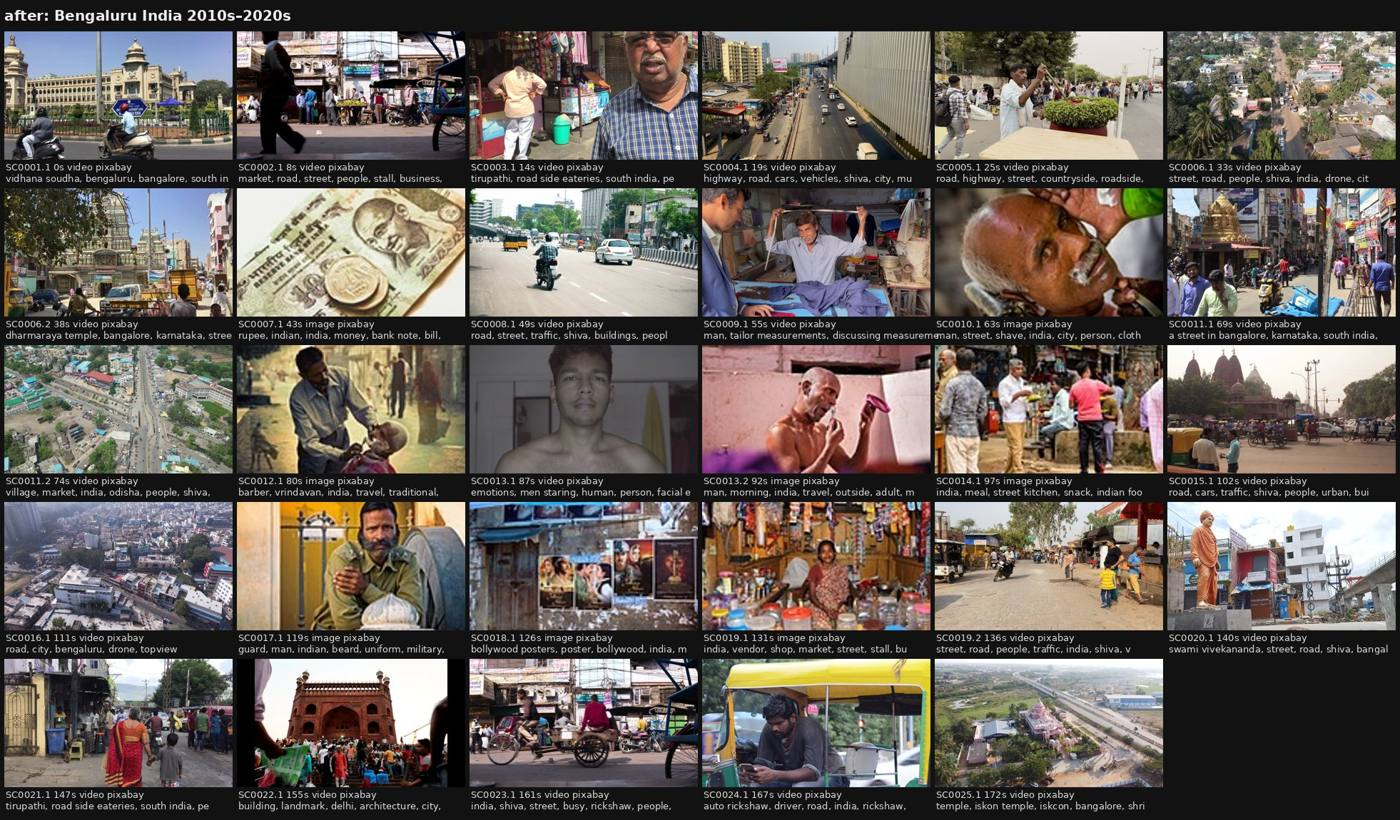
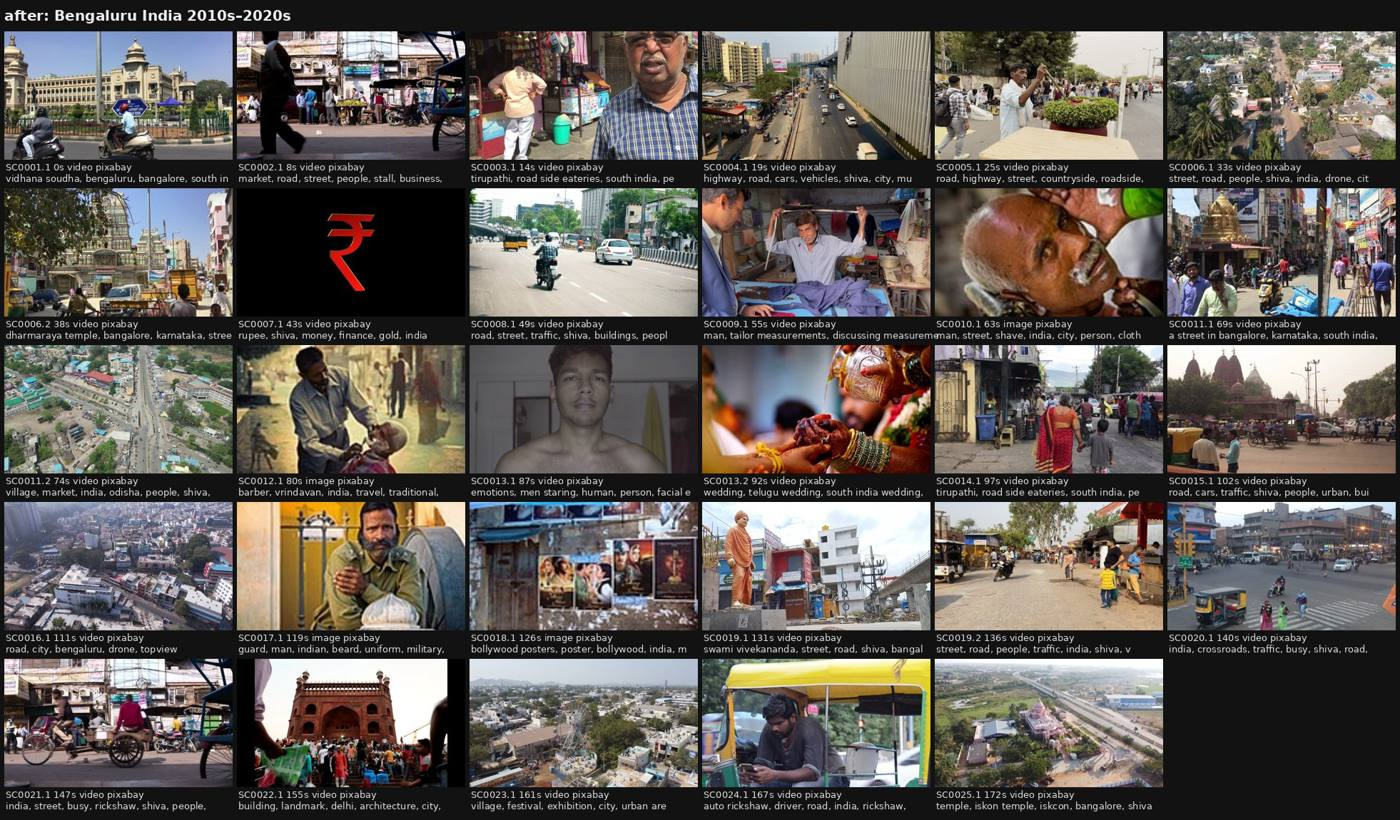
M3 eyes: thumbnail retries, firmer video edge, proof from the pinned versions (25/29 video, 0 off-country)
Claude-Session: https://claude.ai/code/session_018ZdrYVZMzs2HhQpnY3B58n

diff --git a/docs/missions/M3-asset-engine.md b/docs/missions/M3-asset-engine.md
@@ -55,9 +55,11 @@ are video, every shot is native ≥1080p, and the time taken is reported.
   Proof, 993f09ea 0:00-3:00 (M2's beats.json, no brain, same queries both sides): proof/M3/993f09ea-eyes-before.jpg and
   -after.jpg (every shot's pick). Before: 19 of 29 off-topic by eye (Jupiter, waterfall, NASA, Pakistani notes, film strip,
   abstract ink, a New Zealand fire brigade, a jungle river, beach chair...), 8 blank (Commons previews failed: fixed, 330 px).
-  After: 0 off-country, 0 dollars, 0 abstract or film strip, 0 Amazon, 0 blonde; 5 are India but not Bengaluru (above).
-  Video 13/29 (45 %) -> 21/29 (72 %); every pick >=1080p video or >=1600 px still by the provider's own size.
-  Time on 4 CPUs: 120 s cold (1968 thumbnails: search 29 s, seeing 91 s), 22 s with the cache. Model ~600 MB, cached.
+  After: 0 off-country, 0 dollars, 0 abstract or film strip, 0 Amazon, 0 blonde; 6 are India but not Bengaluru (above).
+  Video 13/29 (45 %) -> 25/29 (86 %); every pick >=1080p video or >=1600 px still by the provider's own size.
+  Time on 4 CPUs, pinned torch 2.7.1 + open_clip 2.29.0, cold cache: 205 s (1983 thumbnails, 7 unfetched; search 11 s,
+  seeing 193 s, with the test suite running beside it); 22 s with a warm cache. A first cold run without download retries
+  lost ~500 thumbnails and fell to 14/29 video: retries (3 tries) and a firmer video edge (0.5) fixed it. Model ~600 MB, cached.
   Not done: a trained aesthetic head (GitHub raw is blocked here; a CLIP quality prompt stands in), Internet Archive video
   (its public-domain films measured 640 px wide, 6 of 6 Prelinger items: they fail the 1080p gate), sequence continuity
   (item 5). Unverified: the workflow step on a GitHub runner (run here in the cloud container).
